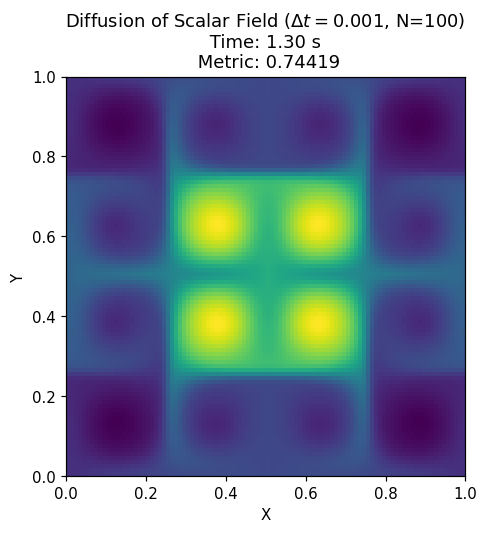
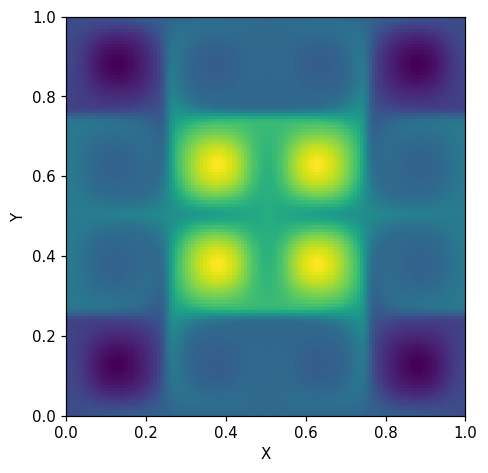
Nv schéma testé sur le projet 1 et qui sera utilisé pr le projet 3

diff --git a/Project1/Forward2nd_RK2.py b/Project1/Forward2nd_RK2.py
@@ -1,0 +1,391 @@
+# -*- coding: utf-8 -*-
+#%%
+
+"""
+Projet n°1 du TC5: Numerical Methods du Master PPF.
+Travail en binôme:
+    Jules Chaveyriat
+    Martin Guillon
+
+Créé le 13/11/2023.
+Mis à jour le 13/11/2023.
+v1.1
+
+DESCRIPTION:
+Version with the explicit method of RK3-Heun.
+
+"""
+### PACKAGES    ###
+
+import os
+import numpy as np
+import matplotlib.pyplot as plt
+import datetime
+import cmath
+from numba import njit
+import warnings
+
+
+### FONCTIONS   ###
+
+
+class FluidFlow():
+
+    def __init__(self, L, N, D, dt, showAndSave, max_t_comput):
+        self.L = L
+        self.N = N
+        self.D = D
+        self.max_t_comput = max_t_comput
+        self.showAndSave = showAndSave
+
+        self.ghost_thick = 2
+        self.dx = self.L/self.N
+        self.dt = dt
+        self.nu = self.dt/self.dx
+
+        self.register_period = int(15/(self.dt*100))
+
+        self.x_array = np.linspace(0, self.L, self.N, endpoint=False)
+        self.y_array = np.linspace(0, self.L, self.N, endpoint=False)
+        self.X, self.Y = np.meshgrid(self.x_array, self.y_array)
+        self.X = self._addGhosts(self.X)
+        self.X = self._fillGhosts(self.X, True)
+        self.Y = self._addGhosts(self.Y)
+        self.Y = self._fillGhosts(self.Y, True)
+        
+        self.U0, self.V0 = self._set_velocity_field()
+        self.U0 = self._fillGhosts(self.U0, True)
+        self.V0 = self._fillGhosts(self.V0, True)
+
+        self.Phi0 = self._set_initial_potential()
+        self.Phi0 = self._fillGhosts(self.Phi0, True)
+        
+        self.tFinal = -1.0
+
+
+    def _addGhosts(self, x):
+        thick = self.ghost_thick
+        x_wide = np.full((x.shape[0]+2*thick, x.shape[1]+2*thick), -1.0, dtype=float)
+        x_wide[thick:-thick, thick:-thick] = x
+        return x_wide
+
+
+    def _fillGhosts(self, x, periodic=True):
+        thick = self.ghost_thick
+        if periodic:
+            x[:, :thick] = x[:, -2*thick:-thick]
+            x[:, -thick:] = x[:, thick:2*thick]
+            x[:thick, :] = x[-2*thick:-thick, :]
+            x[-thick:, :] = x[thick:2*thick, :]
+
+            # filling dead corners with -1.0
+            x[:thick, :thick] = np.full((thick, thick), -1.0, dtype=float)
+            x[:thick, -thick:] = np.full((thick, thick), -1.0, dtype=float)
+            x[-thick:, :thick] = np.full((thick, thick), -1.0, dtype=float)
+            x[-thick:, -thick:] = np.full((thick, thick), -1.0, dtype=float)
+
+        return x
+    
+
+    def _stripGhosts(self, x):
+
+        thick = self.ghost_thick
+        x_stripped = np.empty((x.shape[0]-2*thick, x.shape[1]-2*thick), dtype=float)
+        x_stripped = x[thick:-thick, thick:-thick]
+
+        return x_stripped
+
+
+    def _get_lambda(self):
+        # the maximum amplification factor mofulus is assumed to be achieved for the maximum values of U and V.
+        umax = np.max(self.U0)
+        vmax = np.max(self.V0)
+
+        kxdx = np.linspace(0, 2*np.pi, 128, endpoint=False)
+        kydx = np.linspace(0, 2*np.pi, 128, endpoint=False)
+        Kx, Ky = np.meshgrid(kxdx, kydx)
+
+        c_kx = np.cos(Kx)
+        s_kx = np.sin(Kx)
+        c_ky = np.cos(Ky)
+        s_ky = np.sin(Ky)
+
+        real_part = 1/(self.dx)*(1.5*(umax + vmax) - 4*self.D/self.dx + self.D*(c_kx + c_ky)/self.dx + umax*(c_kx**2 - 0.5 -2*c_kx) + vmax*(c_ky**2 - 0.5 -2*c_ky))
+        imag_part = 1/(self.dx)*(umax*(c_kx*s_kx - 2*s_kx) + vmax*(c_ky*s_ky - 2*s_ky))
+
+        #lambda_arr = np.empty(Kx.shape, dtype=np.complex_)
+
+        lambda_arr = real_part + 1j*imag_part
+
+        return lambda_arr
+
+
+    def amplification_factor(self):
+
+        lambda_arr = self._get_lambda()
+        self.sigma = 0.5*(self.dt*lambda_arr)**2 + self.dt*lambda_arr + 1
+
+        sigma_mod = np.absolute(self.sigma)
+
+        sigma_mod = 0.5*sigma_mod
+
+        sigma_maxmod = np.max(sigma_mod)
+
+        if sigma_maxmod > 1.:
+            print(f"\nWarning:\n\tThe amplification modulus is strictly greater (={sigma_maxmod:.3f}) than 1 and your simulation may diverge.")
+        else:
+            print(f"\nSuccess:\n\tThe amplification modulus is lower (={sigma_maxmod:.3f}) than 1 and your simulation may be stable.")
+
+        # Plot the scalar field
+        fig, ax = plt.subplots()
+        ax.set_xlabel('$k_x \Delta x$')
+        ax.set_ylabel('$k_y \Delta x$')
+        ax.set_title(f'Modulus of amplification factor for Lax-Wendroff + RK2 scheme\n($\Delta t=${self.dt}, N={self.N})')
+        image = ax.imshow(sigma_mod, extent=(0, 2*np.pi, 0, 2*np.pi), origin='lower', cmap='viridis')
+        fig.colorbar(image)
+        fig.savefig(dirpath+"/outputs_Forward2ndRK2/amplfication_factor_map.png", dpi=108, bbox_inches="tight")
+        plt.show()
+        
+
+    def _set_velocity_field(self):
+        
+        u = np.cos((4 * np.pi * self.X) / self.L) * np.sin((4 * np.pi * self.Y) / self.L)
+        v = -np.sin((4 * np.pi * self.X) / self.L) * np.cos((4 * np.pi * self.Y) / self.L)
+        
+        return u, v
+
+
+    def _set_initial_potential(self):
+        
+        phi = np.where(np.sqrt((self.X - 0.5)**2 + (self.Y - 0.5)**2) < 0.3, 1.0, 0.0)
+        
+        return phi
+
+
+        
+    def _f(self, phi):
+
+        ##f function using 2nd-order Forward Difference 2nd order standard Laplacian.
+        
+
+        # get the translation arrays to calculate further the derivatives estimates.
+        # Translation along x axis, indexed by i.
+        phi_ip1 = np.roll(phi, -1, axis=1)
+        phi_ip2 = np.roll(phi, -2, axis=1)
+        phi_im1 = np.roll(phi, 1, axis=1)
+        phi_im2 = np.roll(phi, 2, axis=1)
+        
+        # Translation along y axis, indexed by j.
+        phi_jp1 = np.roll(phi, -1, axis=0)
+        phi_jp2 = np.roll(phi, -2, axis=0)
+        phi_jm1 = np.roll(phi, 1, axis=0)
+        phi_jm2 = np.roll(phi, 2, axis=0)
+
+        forward_x = 0.5*(-3*phi + 4*phi_ip1 - phi_ip2)/self.dx
+        backward_x = 0.5*(3*phi + -4*phi_im1 + phi_im2)/self.dx
+
+        forward_y = 0.5*(-3*phi + 4*phi_jp1 - phi_jp2)/self.dx
+        backward_y = 0.5*(3*phi + -4*phi_jm1 + phi_jm2)/self.dx
+
+        phi_x = np.where(self.U0 < 0, forward_x, backward_x)
+
+        phi_y = np.where(self.V0 < 0, forward_y, backward_y)
+
+        # Calculate second derivatives
+        phi_xx = (phi_ip1 - 2 * phi + phi_im1) / self.dx**2
+        phi_yy = (phi_jp1 - 2 * phi + phi_jm1) / self.dx**2
+
+        laplacian_phi = phi_xx + phi_yy
+        
+        return self.D*laplacian_phi - self.U0*phi_x - self.V0*phi_y
+    
+
+    """
+    def _f(self, phi):
+
+        ##f function using 2nd-order Centered Difference 2nd order standard Laplacian.
+        
+
+        # get the translation arrays to calculate further the derivatives estimates.
+        # Translation along x axis, indexed by i.
+        phi_ip1 = np.roll(phi, -1, axis=1)
+        phi_im1 = np.roll(phi, 1, axis=1)
+        
+        # Translation along y axis, indexed by j.
+        phi_jp1 = np.roll(phi, -1, axis=0)
+        phi_jm1 = np.roll(phi, 1, axis=0)
+
+        phi_x = (phi_ip1 - phi_im1)/self.dx
+
+        phi_y = (phi_jp1 - phi_jm1)/self.dx
+
+        # Calculate second derivatives
+        phi_xx = (phi_ip1 - 2 * phi + phi_im1) / self.dx**2
+        phi_yy = (phi_jp1 - 2 * phi + phi_jm1) / self.dx**2
+
+        laplacian_phi = phi_xx + phi_yy
+        
+        return self.D*laplacian_phi - self.U0*phi_x - self.V0*phi_y
+    """
+
+    def _update_RK2(self, phi):
+        """
+        Function to update the simulation at each step.
+        Here follows the RK2 method.  
+        """   
+
+        # Processes the intermediate coefficients of the RK method, as specified at the page 42 of the handout.
+        k1 = self._f(phi)
+        k1 = self._fillGhosts(k1, True)
+        k2 = self._f(phi + 0.5*self.dt*k1)
+        k2 = self._fillGhosts(k2, True)
+        
+        # Finally processes the phi at next step with the weight sum of defined k1 and k3 defined above.
+        phi_plus_1 = phi + self.dt*k2
+        phi_plus_1 = self._fillGhosts(phi_plus_1, True)
+        
+        return phi_plus_1
+
+
+    def _get_metric(self, phi, stripped=False):
+        """
+        Calculate standard deviation and average of phi
+        """
+        phi_s = np.copy(phi)
+        if not stripped:
+            phi_s = self._stripGhosts(phi_s)
+        std_phi = np.std(phi_s)
+        avg_phi = np.mean(phi_s)
+
+        # Calculate the metric
+        metric = std_phi / avg_phi
+
+        return metric
+
+
+    def _register_scalar_field(self, phi, stripped=False, **kwargs):
+        """
+        Plot the state of the scalar field.
+        Specifies in the title the time and the metric
+        """
+        phi_s = np.copy(phi)
+        if not stripped:
+            phi_s = self._stripGhosts(phi_s)
+
+        # Create a figure and axis for the animation
+        fig, ax = plt.subplots()
+        
+        # Plot the scalar field
+        ax.clear()
+        ax.set_xlabel('X')
+        ax.set_ylabel('Y')
+        if "title" in kwargs.keys():
+            ax.set_title(kwargs.get('title', None))
+        scale_plot = max(np.max(phi_s), 1.0)
+        image = ax.imshow(phi_s, extent=(0, self.L, 0, self.L), vmax=scale_plot, origin='lower', cmap='viridis')
+        fig.colorbar(image)
+
+        if 'saveaspng' in kwargs.keys():
+            plt.savefig(dirpath+"/outputs_Forward2ndRK2/"+kwargs.get('saveaspng', None), dpi=108, bbox_inches="tight")
+        plt.pause(1)
+        plt.close(fig)
+
+
+    def compute(self):
+        """
+        Function taking the parameter of the problem as time and space smpling csts N and dt.
+        Takes the initial scalar field phi.
+        Takes T_comput, the maximum reel time you want this simulation to run. Default is set to 7 days.
+        Processes frame by frame the deduced field with the scheme used in the above function update(phi, N, dt)
+        Plots one frame per 100.
+        Returns the time it took to reach metric < 0.05
+        """
+
+        # Initialisation of the variable metric.
+        metric = 1.
+        
+        Phi = np.copy(self.Phi0)
+        
+        # Set time to zero
+        time = 0
+        
+        # Set frame counting to zero
+        frame = 0
+        
+        start_datetime = datetime.datetime.now()
+        step_datetime = datetime.datetime.now()
+        
+        while metric >= 0.05 and metric < 3 and step_datetime - start_datetime < self.max_t_comput:
+
+            time = frame * self.dt
+            
+            metric = self._get_metric(Phi, False)
+            
+            if frame%self.register_period == 0:
+                print(frame)
+                if self.showAndSave:
+                    self._register_scalar_field(Phi, False, title=f'Diffusion of Scalar Field ($\Delta t=${self.dt}, N={self.N})\nt={time:.3f} and n={frame}\nMetric: {metric:.3f}',saveaspng=str(frame)+"_phi_field.png")
+
+                
+            Phi = self._update_RK2(Phi)
+            step_datetime = datetime.datetime.now()
+            frame += 1
+
+        if metric >= 3 :        
+            print("Warning: The simulation stopped running because a divergence was detected (metric >= 3).")
+            print(f"\tParameters: (L, D, N, $\Delta t$)=({self.L}, {self.D}, {self.N}, {self.dt})")
+            print("\tSimulation duration: "+str(step_datetime - start_datetime))
+            print(f"\tVirtual stop time: {time:.2f} s")        
+            print(f"\tVirtual stop frame: {frame}")
+            print(f"\tMetric: {metric:5f}")
+
+        elif step_datetime - start_datetime >= self.max_t_comput:
+            print("Warning: The simulation stopped running because the max duration of simulation ("+str(self.max_t_comput)+") was reached.")
+            print(f"\tParameters: (L, D, N, $\Delta t$)=({self.L}, {self.D}, {self.N}, {self.dt})")
+            print("\tSimulation duration: "+str(step_datetime - start_datetime))
+            print(f"\tVirtual stop time: {time:.2f} s")
+            print(f"\tVirtual stop frame: {frame}")
+            print(f"\tMetric: {metric:5f}")
+
+        else:
+            print("Success: The simulation stopped running because the field was homogeneous enough (metric < 0.05).")
+            print(f"\tParameters: (L, D, N, $\Delta t$)=({self.L}, {self.D}, {self.N}, {self.dt})")
+            print("\tSimulation duration: "+str(step_datetime - start_datetime))
+            print(f"\tVirtual stop time: {time:.2f} s")        
+            print(f"\tVirtual stop frame: {frame}")
+            print(f"\tMetric: {metric:5f}")
+
+            self.tFinal = time
+
+
+
+
+
+### MAIN   ###
+
+
+
+def main():
+
+    global fullpath, dirpath
+    #Chemin absolu du fichier .py qu'on execute
+    fullpath = os.path.abspath(__file__)
+    #Chemin absolu du dossier contenant le .py qu'on execute
+    dirpath = os.path.dirname(fullpath)
+
+    # Parameters of the problem
+    L = 1.0     # Length of the (square shaped) domain (m)
+    D = 0.001   # Diffusion coefficient
+    # Initial Parameters of the simulation
+    N = 512    # Number of steps for each space axis
+    # Time resolution
+    dt = 3e-4
+    # Display and save parameters
+    show_and_save = True
+    max_time_computation = datetime.timedelta(hours=6)
+
+    mysimu = FluidFlow(L, N, D, dt, show_and_save, max_time_computation)
+    #mysimu.amplification_factor()
+    mysimu.compute()
+
+main()
